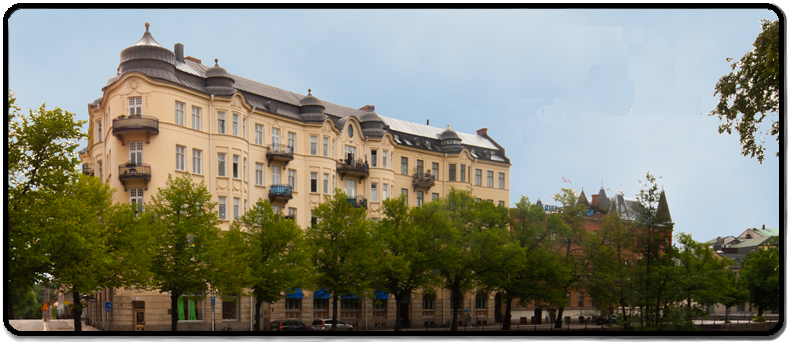
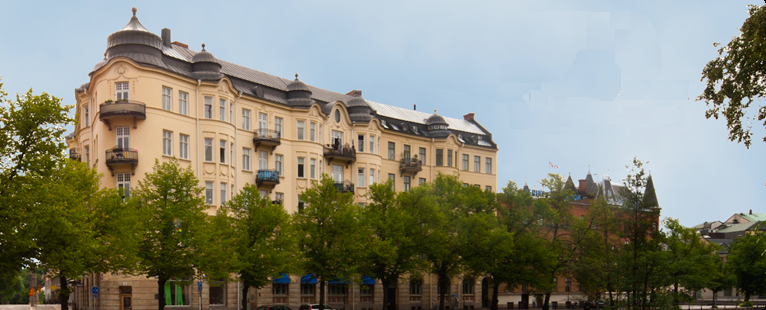
headern

diff --git a/design/design/Content/bootstrap.css b/design/design/Content/bootstrap.css
@@ -7125,8 +7125,8 @@ top: 15%;
 position: absolute;
 }
 div.rightimage{
-    margin-left: 7%;
-    margin-right: 7%;
+    /*margin-left: 7%;
+    margin-right: 7%;*/
 }
 /*div.foretag{
     display: none;
